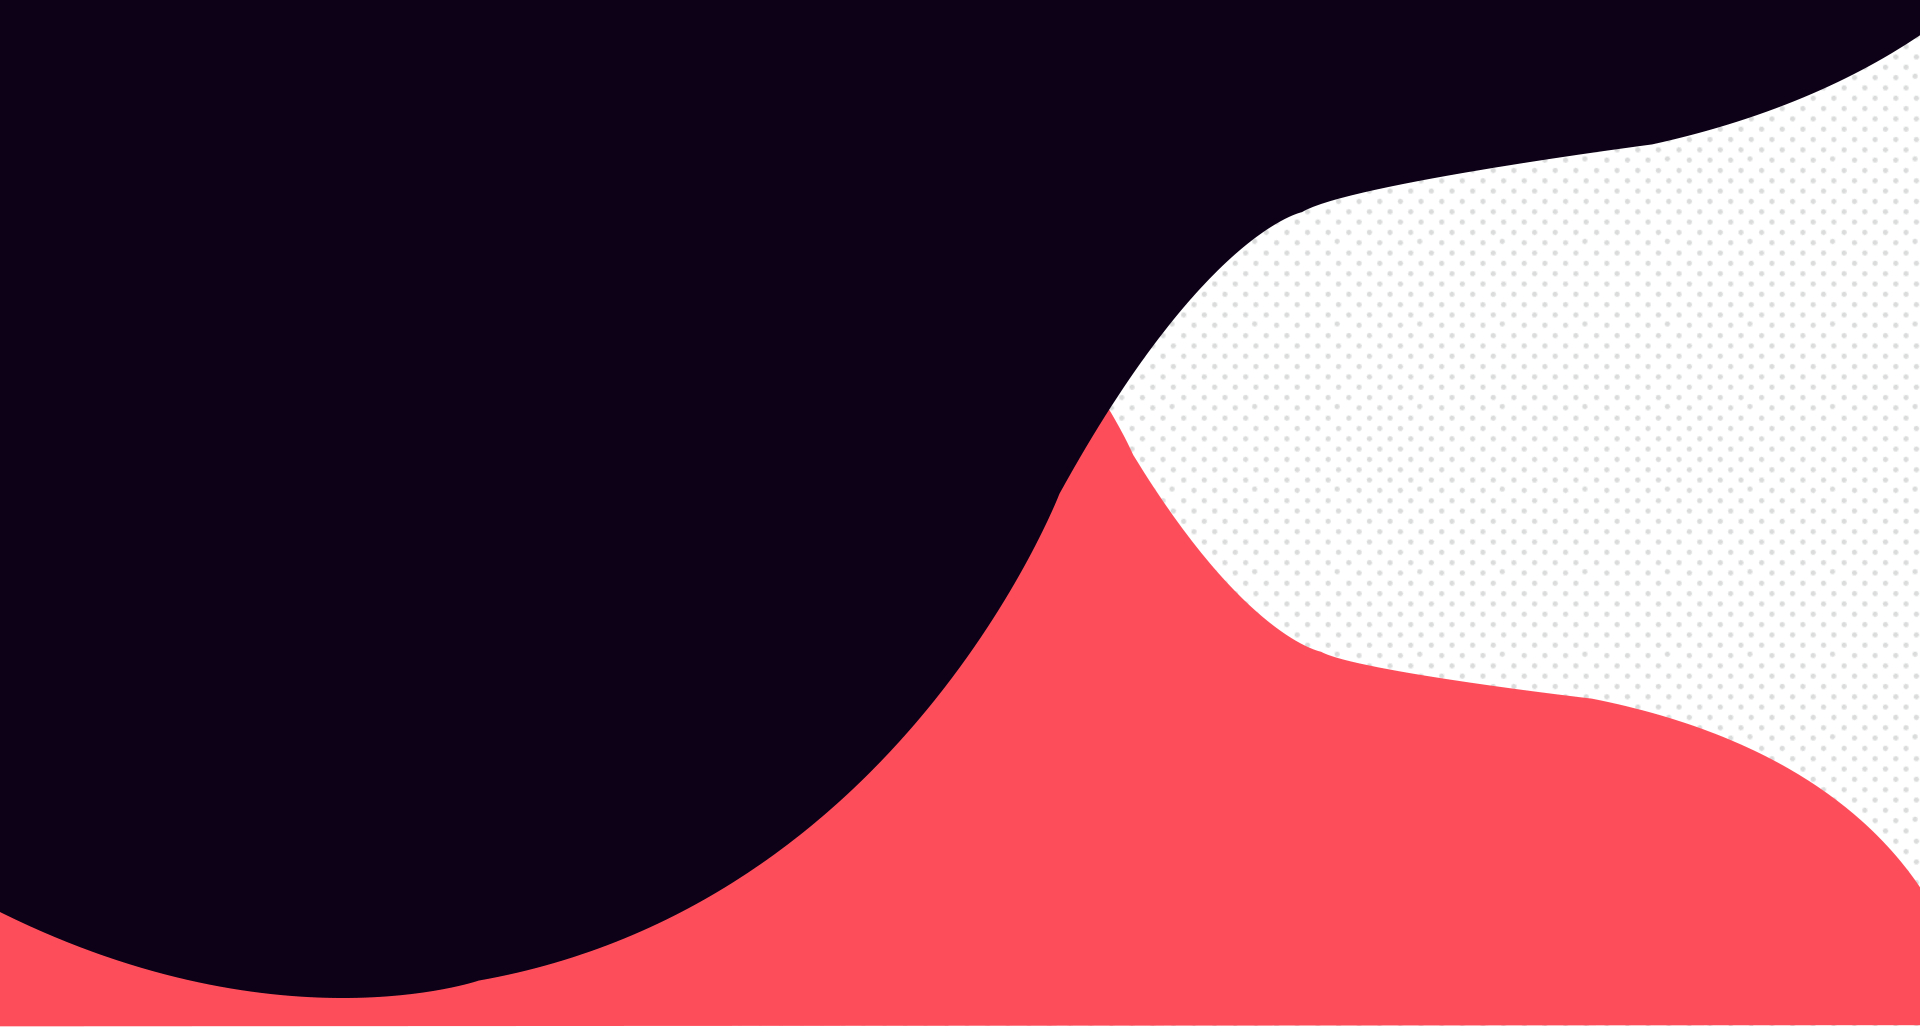
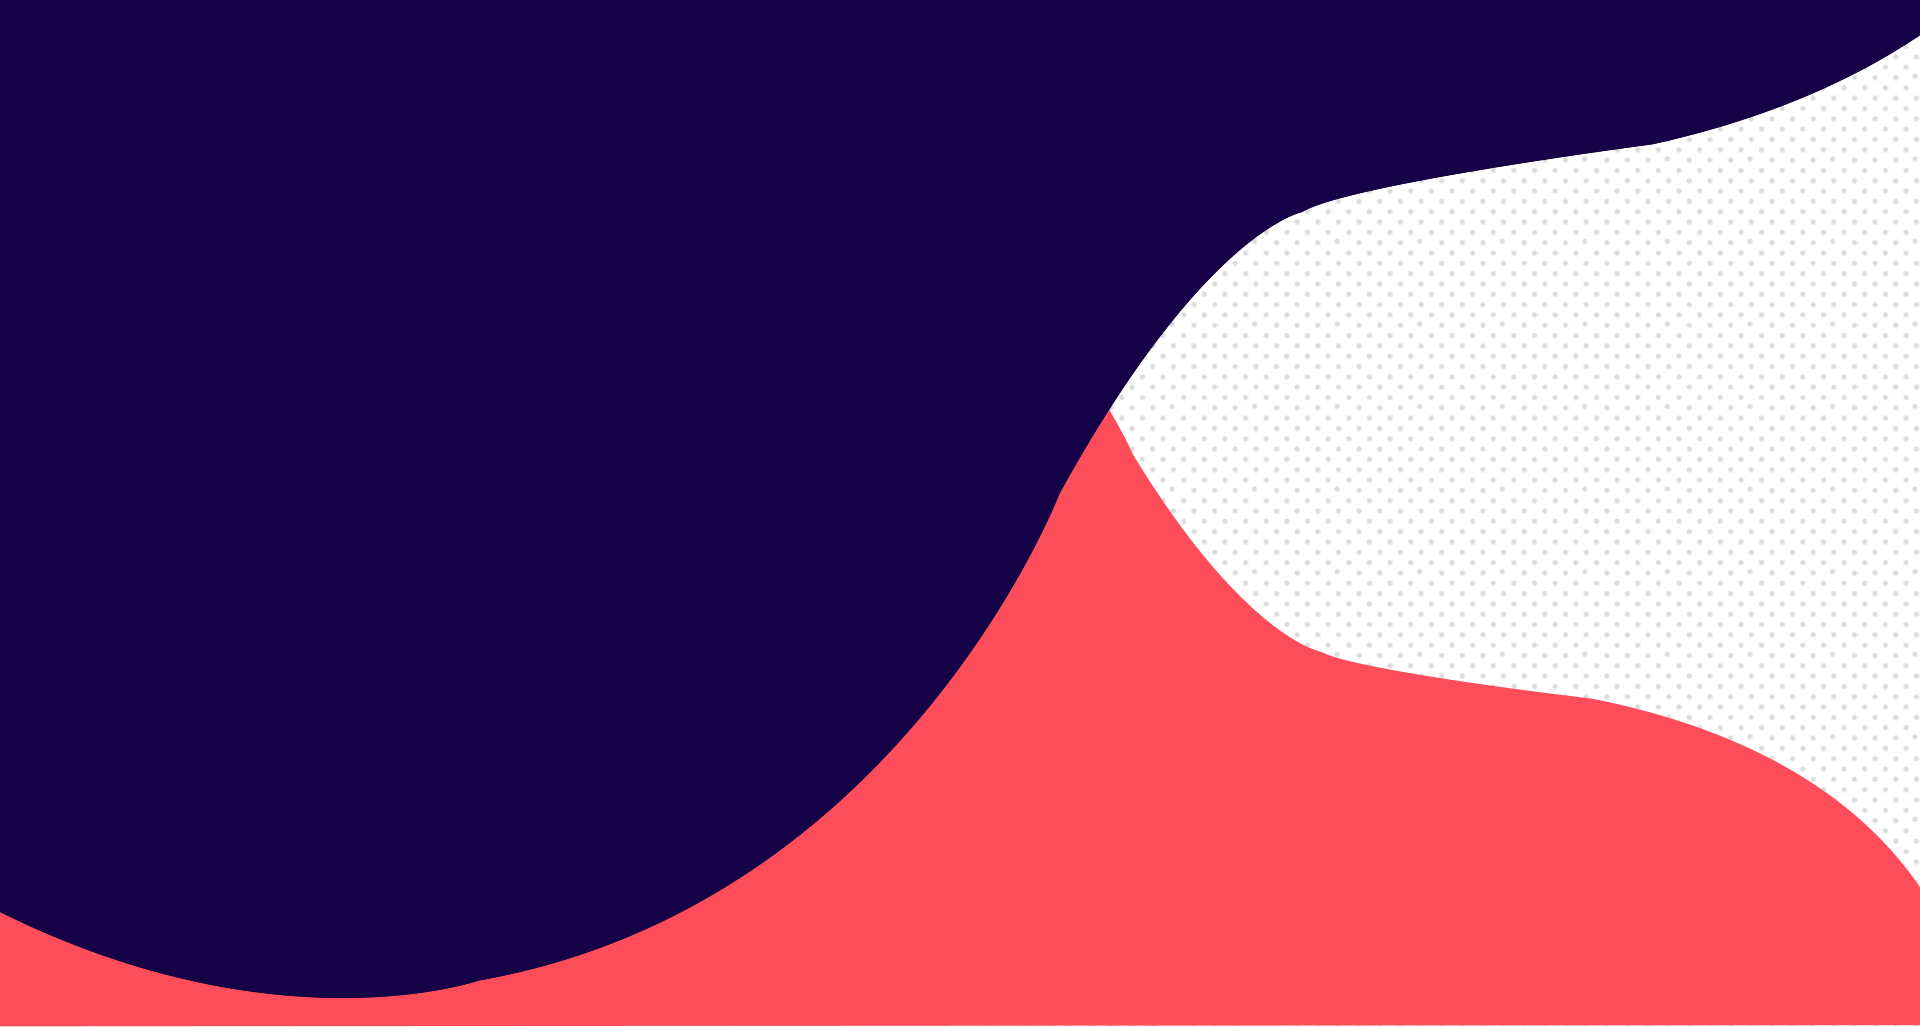
Layout Changes

diff --git a/Content/Template/css/style.css b/Content/Template/css/style.css
@@ -297,7 +297,20 @@ button {
     display:none!important ;
 }
 .mrleft{
-    margin-left:10%;
+    margin:10%;
+}
+.bkcolor {
+    color: #140247!important ;
+}
+.carousalinner {
+    display: flex;
+    width: 50%;
+}
+.pd{
+    padding:30px;
+}.pd input{
+    float:right;
+    margin:10px;
 }
 .round {
     border: 2px solid #140247;
@@ -346,21 +359,33 @@ body{
 
 
 /*------------------------------ vertical bootstrap slider----------------------------*/
-
 .carousel-inner> .carousel-item.carousel-item-next ,
 .carousel-inner > .carousel-item.active.carousel-item-right{ 
-    transform: translate3d(0, 100%, 0); -webkit-transform: translate3d(0, 100%, 0); -ms-transform: translate3d(0, 100%, 0); -moz-transform: translate3d(0, 100%, 0); -o-transform: translate3d(0, 100%, 0);  top: 0;
-    
+    transform: translate3d(0, 100%, 0);
+    -webkit-transform: translate3d(0, 100%, 0);
+    -ms-transform: translate3d(0, 100%, 0);
+    -moz-transform: translate3d(0, 100%, 0);
+    -o-transform: translate3d(0, 100%, 0);
+    top: 0;
 }
 .carousel-inner > .carousel-item.carousel-item-prev ,
 .carousel-inner > .carousel-item.active.carousel-item-left{ 
-    transform: translate3d(0,-100%, 0); -webkit-transform: translate3d(0,-100%, 0);  -moz-transform: translate3d(0,-100%, 0);-ms-transform: translate3d(0,-100%, 0); -o-transform: translate3d(0,-100%, 0); top: 0;
-    
+    transform: translate3d(0,-100%, 0);
+    -webkit-transform: translate3d(0,-100%, 0);
+    -moz-transform: translate3d(0,-100%, 0);
+    -ms-transform: translate3d(0,-100%, 0);
+    -o-transform: translate3d(0,-100%, 0);
+    top: 0;  
 }
 .carousel-inner > .carousel-item.next.carousel-item-left ,
 .carousel-inner > .carousel-item.carousel-item-prev.carousel-item-right ,
 .carousel-inner > .carousel-item.active{
-    transform:translate3d(0,0,0); -webkit-transform:translate3d(0,0,0);-ms-transform:translate3d(0,0,0);; -moz-transform:translate3d(0,0,0); -o-transform:translate3d(0,0,0); top:0;
+    transform:translate3d(0,0,0);
+    -webkit-transform:translate3d(0,0,0);
+    -ms-transform:translate3d(0,0,0);
+    -moz-transform:translate3d(0,0,0);
+    -o-transform:translate3d(0,0,0);
+    top:0;
     
 }
 
